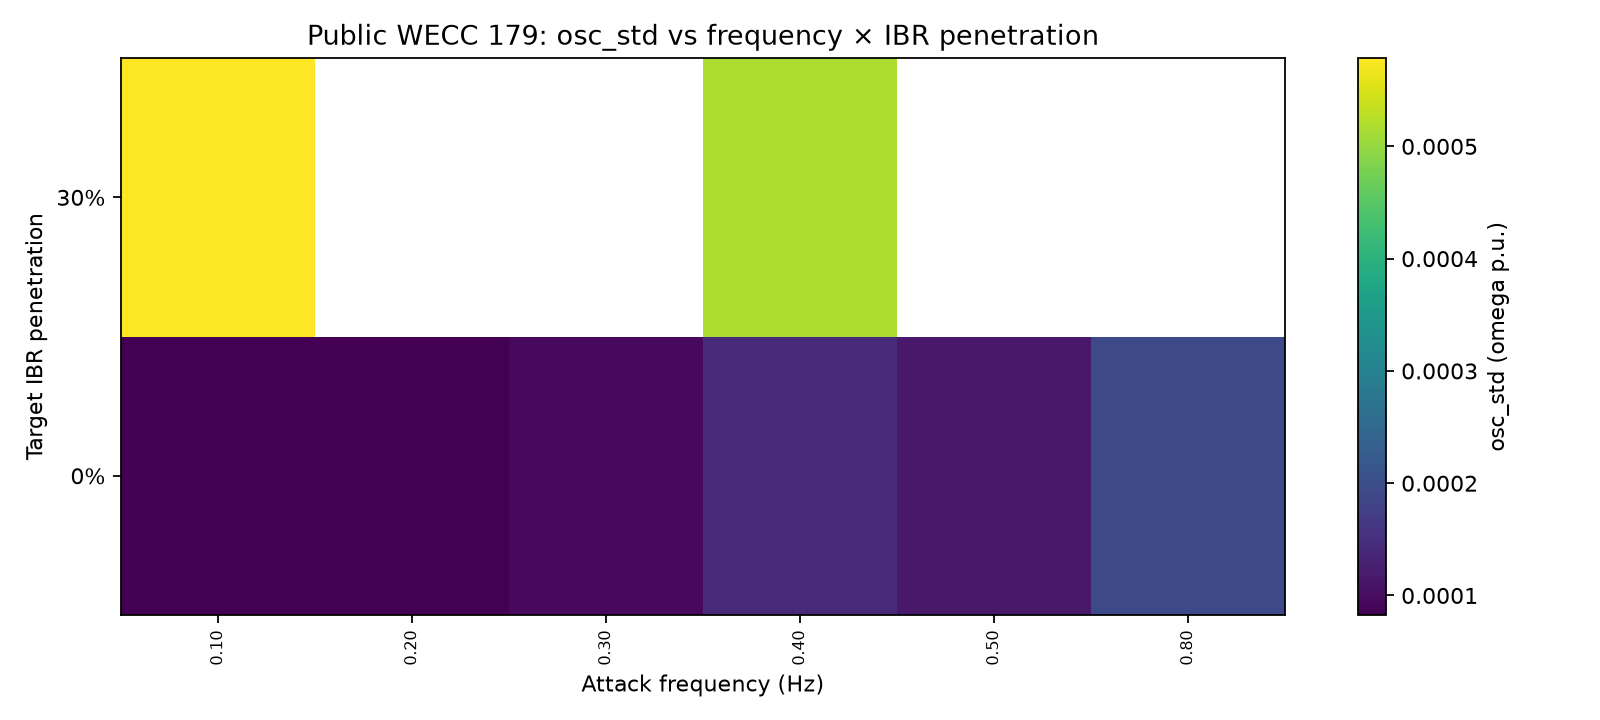
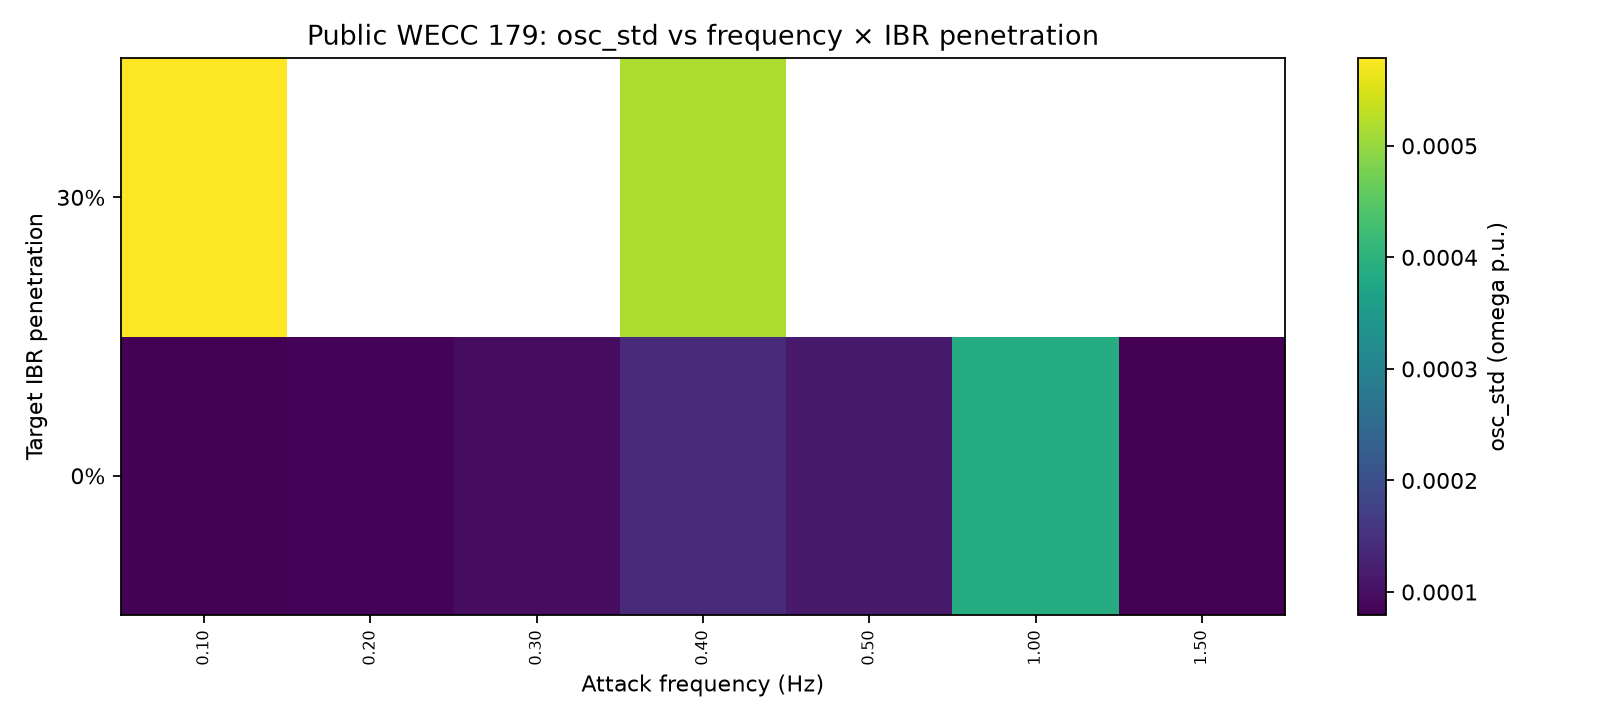
Clamp sine event spacing and rerun IBR frequency sweeps. Keep high-frequency stepped-sine injections at the 0.1s safety floor, then refresh the WECC square-vs-sine comparison artifacts.

diff --git a/tests/test_physics.py b/tests/test_physics.py
@@ -48,14 +48,31 @@ def test_waveform_schedule_is_bounded_and_resets():
 
 
 def test_sine_sweep_uses_twenty_steps_per_cycle_and_resets():
-    profile = sweep_profile(1.0, amplitude_frac=0.012)
+    profile = sweep_profile(0.5, amplitude_frac=0.012)
     events = build_event_schedule(profile)
-    first_cycle = [event for event in events if event.time_s < profile.t_start_s + 1.0]
+    first_cycle = [
+        event
+        for event in events
+        if event.time_s < profile.t_start_s + 1.0 / profile.frequency_hz
+    ]
     assert profile.kind == "sine"
     assert len(first_cycle) == 20
     assert max(abs(event.relative_delta) for event in events) <= 0.012 + 1e-12
     assert events[-1].time_s == profile.t_end_s
     assert events[-1].relative_delta == 0.0
+
+
+def test_high_frequency_sine_clamps_to_safe_event_spacing():
+    profile = sweep_profile(1.5, amplitude_frac=0.012)
+    events = build_event_schedule(profile)
+    spacing = np.diff([event.time_s for event in events])
+    assert spacing.min() >= 0.1 - 1e-9
+    first_cycle = [
+        event
+        for event in events
+        if event.time_s < profile.t_start_s + 1.0 / profile.frequency_hz
+    ]
+    assert len(first_cycle) < 20
 
 
 def test_sampled_profiles_are_deterministic():

diff --git a/bit2watt_impl/physics/waveforms.py b/bit2watt_impl/physics/waveforms.py
@@ -44,11 +44,13 @@ def build_event_schedule(profile: AttackProfile, *, min_interval_s: float = 0.1)
     elif profile.kind == "sine":
         if profile.frequency_hz is None:
             raise ValueError("sine profiles require frequency_hz")
-        # Replay one sinusoidal period as 20 zero-order-hold steps. At the
-        # 1.5 Hz sweep ceiling this is 0.033 s, matching the 30 Hz TDS step.
-        # Convergence failures from frequent changes are retained as results.
+        # Replay one sinusoidal period as about 20 zero-order-hold steps.
+        # Prioritize solver stability over waveform resolution: at higher
+        # frequencies the 0.1 s floor intentionally reduces steps/cycle.
         steps_per_cycle = 20
         step_s = 1.0 / (profile.frequency_hz * steps_per_cycle)
+        if step_s < min_interval_s:
+            step_s = min_interval_s
         t = start
         while t < end - 1e-9:
             phase = 2.0 * np.pi * profile.frequency_hz * (t - start)
